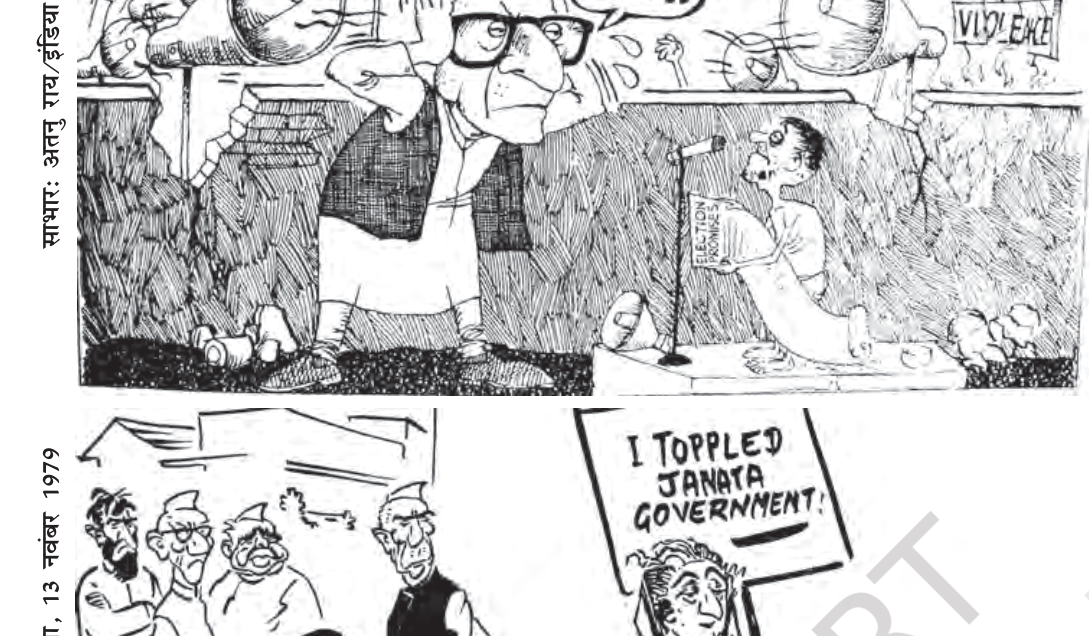
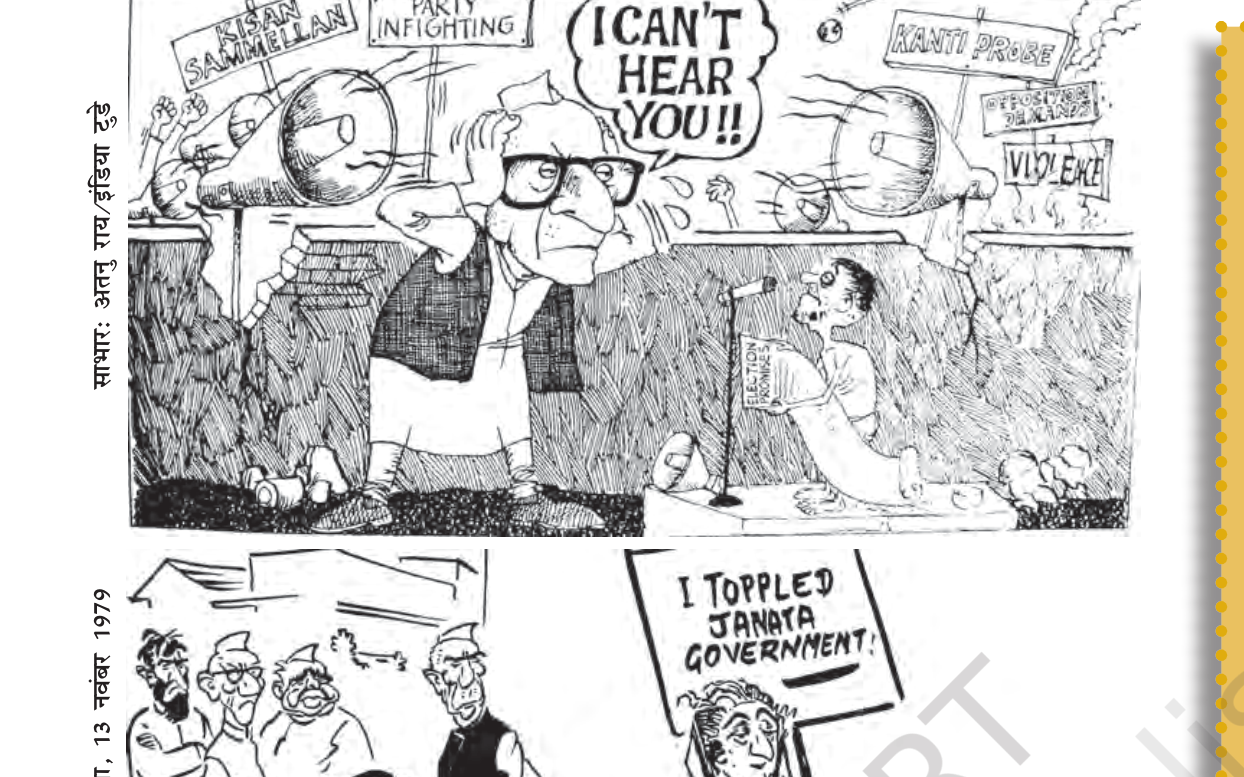
fix: expand crop boundaries for the 4 new cartoons and increase display size in HTML

diff --git a/copy_master_ch13.html b/copy_master_ch13.html
@@ -160,7 +160,7 @@
 
     <!-- NCERT Cartoon: Conditional Stay Order (impending Political Crisis) -->
     <div class="illustration-box" style="border-color: #701a75 !important; margin-bottom: 35px;">
-        <img alt="Conditional Stay Cartoon" src="images/ch13/conditional_stay_cartoon.png" style="width: 70%; max-width: 500px; display: block; margin: 0 auto; border: 4px solid #cbd5e1; border-radius: 8px; box-shadow: 0 10px 20px rgba(0,0,0,0.15);"/>
+        <img alt="Conditional Stay Cartoon" src="images/ch13/conditional_stay_cartoon.png" style="width: 85%; max-width: 750px; display: block; margin: 0 auto; border: 4px solid #cbd5e1; border-radius: 8px; box-shadow: 0 10px 20px rgba(0,0,0,0.15);"/>
         <div class="illustration-explanation" style="border-left-color: #701a75 !important;">
             <b>NCERT पुस्तक का चित्र (कंडीशनल स्टे ऑर्डर कार्टून):</b><br/>
             यह प्रसिद्ध आर. के. लक्ष्मण का कार्टून आपातकाल की घोषणा से कुछ दिन पहले प्रकाशित हुआ था। यह उस समय के गंभीर राजनैतिक संकट को दर्शाता है। कार्टून में प्रधानमंत्री इंदिरा गांधी 'कंडीशनल स्टे ऑर्डर' (आंशिक स्थगन आदेश) लिखी कुर्सी पर बैठी हैं, जो राजनीतिक तूफान की लहरों (Political Crisis) में घिरी है। उनके पीछे कांग्रेस अध्यक्ष डी. के. बरुआ कुर्सी को थामे हुए खड़े हैं और कह रहे हैं कि इतनी भारी भीड़ के समर्थन के बाद आपको इस्तीफा देने के बारे में नहीं सोचना चाहिए।
@@ -185,7 +185,7 @@
 </div>
     <!-- NCERT Cartoon: Sweeping the Polls (1971 Elections Landslide) -->
     <div class="illustration-box" style="border-color: #6d28d9 !important; margin-bottom: 35px;">
-        <img alt="Sweeping the Polls" src="images/ch13/sweeping_polls.png" style="width: 70%; max-width: 500px; display: block; margin: 0 auto; border: 4px solid #cbd5e1; border-radius: 8px; box-shadow: 0 10px 20px rgba(0,0,0,0.15);"/>
+        <img alt="Sweeping the Polls" src="images/ch13/sweeping_polls.png" style="width: 85%; max-width: 750px; display: block; margin: 0 auto; border: 4px solid #cbd5e1; border-radius: 8px; box-shadow: 0 10px 20px rgba(0,0,0,0.15);"/>
         <div class="illustration-explanation" style="border-left-color: #6d28d9 !important;">
             <b>NCERT पुस्तक का चित्र (Sweeping the Polls - 1971 के चुनाव परिणाम):</b><br/>
             यह प्रसिद्ध आर. के. लक्ष्मण का कार्टून 1971 के लोकसभा चुनावों में कांग्रेस (आर) और इंदिरा गांधी की प्रचंड जीत (Landslide Victory) को दर्शाता है। कार्टून में इंदिरा गांधी एक झाड़ू लेकर विपक्ष के सभी प्रमुख नेताओं (जैसे सिंडिकेट के नेता, जनसंघ, स्वतंत्र पार्टी आदि) को बटोरकर कचरे के डिब्बे (कूड़ेदान) में डाल रही हैं, जो 'Sweeping the Polls' (चुनावों में सूपड़ा साफ करना) मुहावरे का जीवंत चित्रण है।
@@ -332,7 +332,7 @@
 
     <!-- NCERT Map: Lok Sabha Election Results 1977 Map -->
     <div class="illustration-box" style="border-color: #0284c7 !important; margin-bottom: 35px;">
-        <img alt="Lok Sabha Election Results 1977 Map" src="images/ch13/janata_map.png" style="width: 70%; max-width: 500px; display: block; margin: 0 auto; border: 4px solid #cbd5e1; border-radius: 8px; box-shadow: 0 10px 20px rgba(0,0,0,0.15);"/>
+        <img alt="Lok Sabha Election Results 1977 Map" src="images/ch13/janata_map.png" style="width: 80%; max-width: 600px; display: block; margin: 0 auto; border: 4px solid #cbd5e1; border-radius: 8px; box-shadow: 0 10px 20px rgba(0,0,0,0.15);"/>
         <div class="illustration-explanation" style="border-left-color: #0284c7 !important;">
             <b>NCERT पुस्तक का चित्र (1977 का चुनाव परिणाम मानचित्र):</b><br/>
             यह मानचित्र 1977 के लोकसभा चुनावों के परिणामों को दर्शाता है। इसमें हरे/काले रंग में चिह्नित क्षेत्र जनता पार्टी की भारी जीत को दर्शाते हैं (विशेष रूप से उत्तर भारत में, जहाँ उसने लगभग 100% सीटें जीतीं)। जबकि पीले रंग में कांग्रेस की सीटें मुख्य रूप से दक्षिण भारत (जैसे केरल, आंध्र प्रदेश, कर्नाटक और तमिलनाडु) में केंद्रित थीं, जहाँ आपातकाल का प्रभाव बहुत कम या सकारात्मक था।
@@ -414,7 +414,7 @@
 
     <!-- NCERT Cartoon: Faction Fight - Close Ears -->
     <div class="illustration-box" style="border-color: #b45309 !important; margin-bottom: 35px;">
-        <img alt="Janata Infighting close ears" src="images/ch13/janata_infighting_1.png" style="width: 70%; max-width: 500px; display: block; margin: 0 auto; border: 4px solid #cbd5e1; border-radius: 8px; box-shadow: 0 10px 20px rgba(0,0,0,0.15);"/>
+        <img alt="Janata Infighting close ears" src="images/ch13/janata_infighting_1.png" style="width: 85%; max-width: 750px; display: block; margin: 0 auto; border: 4px solid #cbd5e1; border-radius: 8px; box-shadow: 0 10px 20px rgba(0,0,0,0.15);"/>
         <div class="illustration-explanation" style="border-left-color: #b45309 !important;">
             <b>NCERT पुस्तक का चित्र (जनता पार्टी के भीतर अंतर्द्वंद्व - I Can't Hear You!!):</b><br/>
             यह कार्टून प्रधानमंत्री मोरारजी देसाई की लाचारी को दर्शाता है, जो अपने दोनों कानों को बंद किए हुए हैं। एक तरफ चौधरी चरण सिंह के समर्थकों का भारी 'किसान सम्मेलन' का शोर है, और दूसरी तरफ विपक्ष की 'कांति जांच' (Kanti Probe - मोरारजी देसाई के पुत्र कांति देसाई के खिलाफ भ्रष्टाचार की जांच की मांग) और विरोध प्रदर्शनों का भारी कोलाहल है। नीचे एक आम नागरिक चुनाव घोषणापत्र (Election Promises) हाथ में लिए खड़ा है, जिसकी आवाज़ सरकार तक नहीं पहुँच पा रही है।
@@ -428,7 +428,7 @@
 
     <!-- NCERT Cartoon: Janata Government Toppled -->
     <div class="illustration-box" style="border-color: #b45309 !important; margin-bottom: 35px;">
-        <img alt="Janata government toppled" src="images/ch13/janata_infighting_2.png" style="width: 70%; max-width: 500px; display: block; margin: 0 auto; border: 4px solid #cbd5e1; border-radius: 8px; box-shadow: 0 10px 20px rgba(0,0,0,0.15);"/>
+        <img alt="Janata government toppled" src="images/ch13/janata_infighting_2.png" style="width: 85%; max-width: 750px; display: block; margin: 0 auto; border: 4px solid #cbd5e1; border-radius: 8px; box-shadow: 0 10px 20px rgba(0,0,0,0.15);"/>
         <div class="illustration-explanation" style="border-left-color: #b45309 !important;">
             <b>NCERT पुस्तक का चित्र (जनता सरकार का पतन - I Toppled Janata Government!):</b><br/>
             इस कार्टून में इंदिरा गांधी हाथ में एक तख्ती लिए खड़ी हैं जिस पर लिखा है "मैंने जनता सरकार को गिराया!" (I Toppled Janata Government!)। उनके पीछे खड़े जनता पार्टी के नेता (जैसे मोरारजी देसाई, चरण सिंह, जगजीवन राम) विरोध करते हुए कह रहे हैं: "यह झूठ है! हर कोई जानता है कि हम सबने दो साल तक मेहनत की और इसे खुद गिराया!" यह जनता पार्टी के आंतरिक कलह पर एक करारा कटाक्ष है।
@@ -442,7 +442,7 @@
 
     <!-- NCERT Cartoon: Umbrella Struggle -->
     <div class="illustration-box" style="border-color: #b45309 !important; margin-bottom: 35px;">
-        <img alt="Janata umbrella struggle" src="images/ch13/janata_infighting_3.png" style="width: 70%; max-width: 500px; display: block; margin: 0 auto; border: 4px solid #cbd5e1; border-radius: 8px; box-shadow: 0 10px 20px rgba(0,0,0,0.15);"/>
+        <img alt="Janata umbrella struggle" src="images/ch13/janata_infighting_3.png" style="width: 85%; max-width: 750px; display: block; margin: 0 auto; border: 4px solid #cbd5e1; border-radius: 8px; box-shadow: 0 10px 20px rgba(0,0,0,0.15);"/>
         <div class="illustration-explanation" style="border-left-color: #b45309 !important;">
             <b>NCERT पुस्तक का चित्र (एक छतरी के नीचे संघर्ष - Let me do it first!):</b><br/>
             इस कार्टून में जनता पार्टी के सभी नेता बारिश से बचने के लिए 'जनता पार्टी' नाम की एक ही छतरी के नीचे आने की कोशिश कर रहे हैं, लेकिन हर नेता (मोरारजी, चरण सिंह, जगजीवन राम) कह रहा है: "चलो एक ही छतरी के नीचे चलते हैं, लेकिन पहले मुझे जाने दो!" यह उनकी व्यक्तिगत सत्ता-लोलुपता और एकजुटता के अभाव को दर्शाता है। दाईं ओर "DEMOCRACY" (लोकतंत्र) नामक मरीज को दिखाया गया है जिसे आपातकाल रूपी कड़वी सुई (वैक्सीनेशन) लगाई गई थी, जिसने लोकतंत्र की प्रतिरोधक क्षमता को बढ़ाया।
